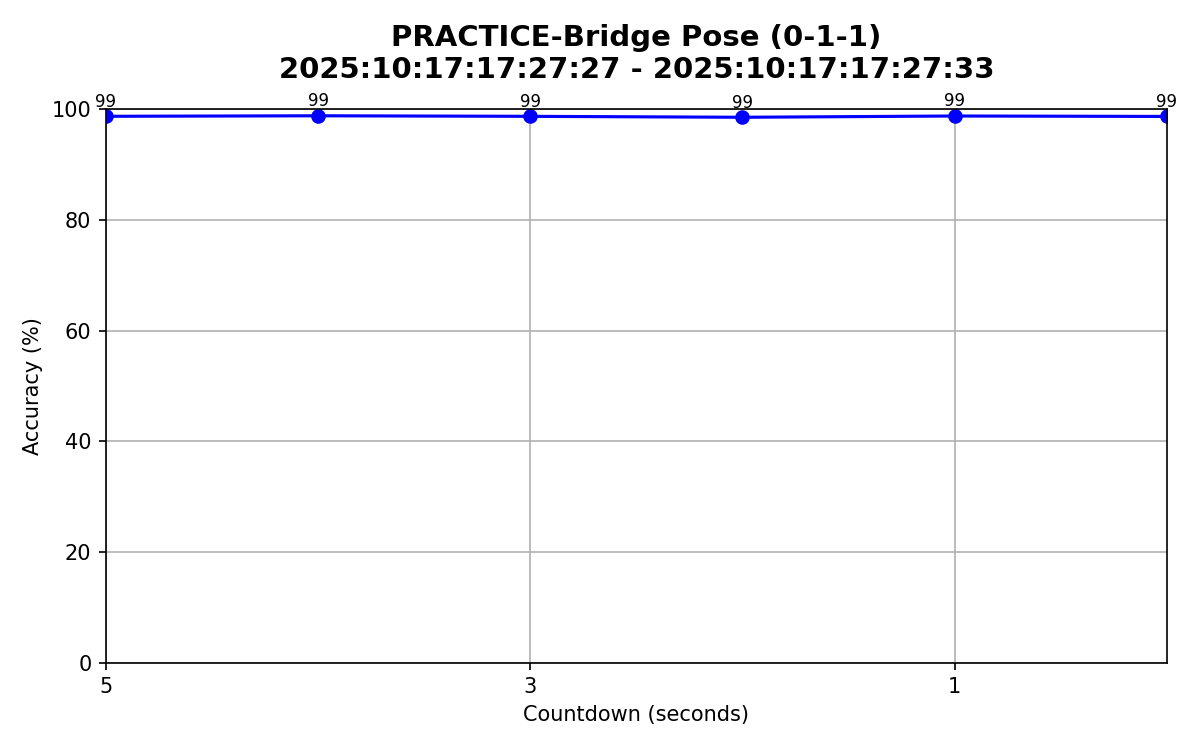
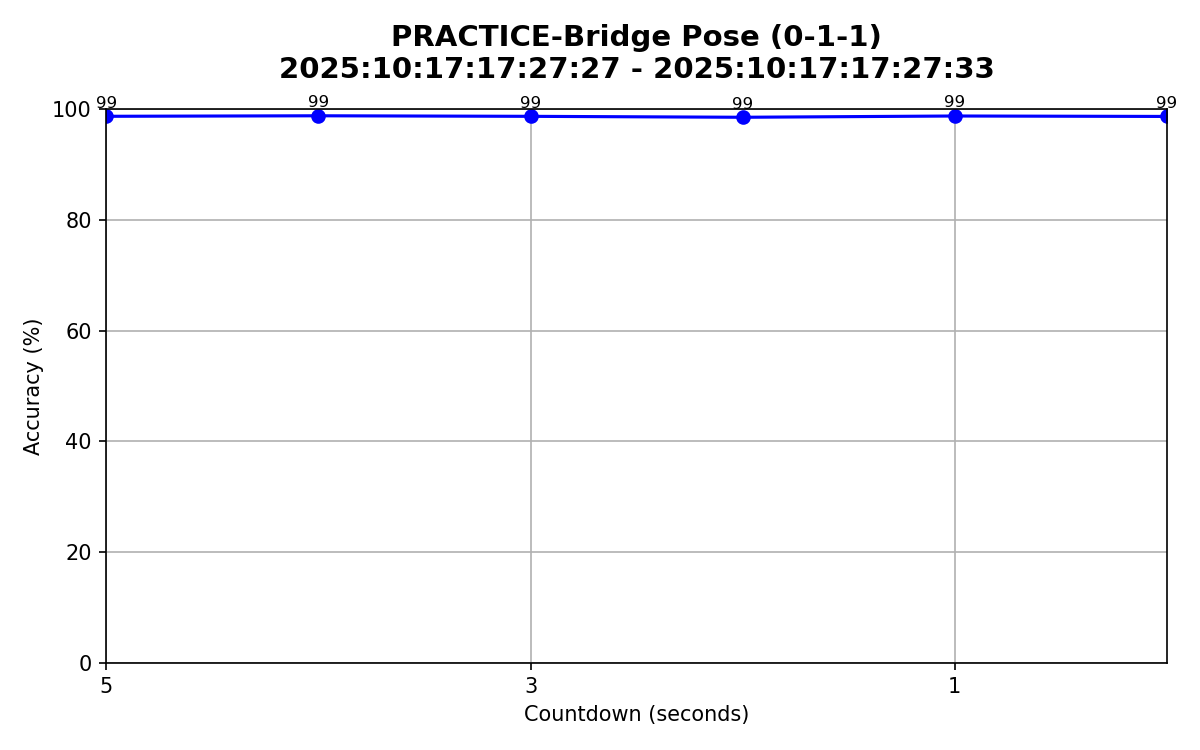
修正發現的bug

diff --git a/generate_chart.py b/generate_chart.py
@@ -49,7 +49,7 @@ def fetch_and_group_data(user_id, mode_text, posture_text, db, start_date, end_d
 
     merged_rows = {}
     for r in rows:
-        key = (r["count"], r["countdown"])
+        key = (r["count"], r["countdown"], r["timestamp"])
         if key not in merged_rows:
             merged_rows[key] = {"sum": r["accuracy"], "cnt": 1, "row": r}
         else:
@@ -68,48 +68,73 @@ def fetch_and_group_data(user_id, mode_text, posture_text, db, start_date, end_d
 
     final_groups = []
     for major_key, rows_in_group in major_groups.items():
-        rows_in_group.sort(key=lambda r: r["countdown"], reverse=True)
-        cds = [int(r["countdown"]) for r in rows_in_group if r["countdown"] is not None]
-        if not cds:
-            continue
-        cd_max, cd_min = max(cds), min(cds)
-
-        cd_map = {int(r["countdown"]): float(r["accuracy"]) for r in rows_in_group}
-        cd_time_map = {int(r["countdown"]): r["timestamp"] for r in rows_in_group if r["timestamp"] is not None}
-        filled_rows = []
-        last_acc = None
-        last_time = None
-        for cd in range(cd_max, cd_min - 1, -1):
-            acc = cd_map.get(cd, last_acc)
-            tstamp = cd_time_map.get(cd, last_time)
-            if acc is not None:
-                fake_row = rows_in_group[0].copy()
-                fake_row["countdown"] = cd
-                fake_row["accuracy"] = acc
-                fake_row["timestamp"] = tstamp
-                filled_rows.append(fake_row)
-            if cd in cd_map:
-                last_acc = cd_map[cd]
-            if cd in cd_time_map:
-                last_time = cd_time_map[cd]
-
-        sub_groups, temp = [], []
+        rows_in_group.sort(key=lambda r: r["timestamp"] or datetime.min)  # sort by time
+        cycles = []
+        current_cycle = []
         prev_cd = None
-        for r in filled_rows:
-            cd = int(r["countdown"])
-            if prev_cd is not None and cd > prev_cd:
-                sub_groups.append(temp)
-                temp = []
-            temp.append(r)
-            prev_cd = cd
-        if temp:
-            sub_groups.append(temp)
+        for r in rows_in_group:
+            if r.get("countdown") is None:
+                continue
+            try:
+                cd = int(r["countdown"])
+            except Exception:
+                continue
 
-        for idx, sg in enumerate(sub_groups, start=1):
+            if prev_cd is None:
+                current_cycle = [r]
+            else:
+                if cd > prev_cd:  # new cycle
+                    if current_cycle:
+                        cycles.append(current_cycle)
+                    current_cycle = [r]
+                else:
+                    current_cycle.append(r)
+            prev_cd = cd
+        if current_cycle:
+            cycles.append(current_cycle)
+
+        for idx, cycle in enumerate(cycles, start=1):
+            obs_map = {}
+            time_map = {}
+            for rr in cycle:
+                try:
+                    k = int(rr["countdown"])
+                except Exception:
+                    continue
+                if k not in obs_map:
+                    obs_map[k] = float(rr["accuracy"])
+                    time_map[k] = rr.get("timestamp")
+
+            if not obs_map:
+                continue
+
+            cd_max = max(obs_map.keys())
+            cd_min = min(obs_map.keys())
+
+            filled_rows = []
+            last_acc = None
+            last_time = None
+            for cd in range(cd_max, cd_min - 1, -1):
+                if cd in obs_map:
+                    last_acc = obs_map[cd]
+                    last_time = time_map.get(cd, last_time)
+                    fake_row = cycle[0].copy()
+                    fake_row["countdown"] = cd
+                    fake_row["accuracy"] = last_acc
+                    fake_row["timestamp"] = last_time
+                    filled_rows.append(fake_row)
+                else:
+                    if last_acc is not None:
+                        fake_row = cycle[0].copy()
+                        fake_row["countdown"] = cd
+                        fake_row["accuracy"] = last_acc
+                        fake_row["timestamp"] = last_time
+                        filled_rows.append(fake_row)
+
             final_groups.append({
                 "major": major_key,
                 "minor": idx,
-                "rows": sg
+                "rows": filled_rows
             })
 
     return final_groups

diff --git a/main.py b/main.py
@@ -163,6 +163,7 @@ class AIYogaCoachApp(QMainWindow, Ui_MainWindow):
 
         # Update logger user id when account emits id
         self.account.user_id_signal.connect(self.logger.set_user_id)
+        self.account.user_id_signal.connect(lambda uid: self.on_reset_clicked() if uid else None)
 
         # Start session upon login, end session on logout
         self.account.user_id_signal.connect(
@@ -536,8 +537,13 @@ class AIYogaCoachApp(QMainWindow, Ui_MainWindow):
         # 1 If the app is paused or not active, flush buffers
         # -----------------------------
         current_state = self.state_reg_label.text()
-        if current_state in ["Pause", "N/A"]:
-            self.flush_pose_buffer()  # Clear buffered pose data
+
+        if current_state != "Exercise":
+            if current_state in ["Pause", "N/A"]:
+                self.flush_pose_buffer()  
+                self.countdown_timer.on_pose_detected(False)
+                return
+
             self.countdown_timer.on_pose_detected(False)
             return
 
@@ -583,6 +589,7 @@ class AIYogaCoachApp(QMainWindow, Ui_MainWindow):
         if avg and avg > 0:
             detected = True
             mode = self.countdown_timer.mode
+            ts = datetime.now()
 
             # Update standard score display for this pose
             display_standard_score(self.standard_score, detected_pose_name, mode)
@@ -597,7 +604,8 @@ class AIYogaCoachApp(QMainWindow, Ui_MainWindow):
                     "posture_name": detected_pose_name,
                     "accuracy": avg,
                     "mode": mode,
-                    "countdown": countdown_value
+                    "countdown": countdown_value,
+                    "timestamp":ts
                 })
             except Exception as e:
                 print("pose_record_buffer append error:", e)
@@ -981,7 +989,8 @@ class AIYogaCoachApp(QMainWindow, Ui_MainWindow):
                         posture_name=record["posture_name"],
                         accuracy=record["accuracy"],
                         mode=record["mode"],
-                        countdown=record["countdown"]
+                        countdown=record["countdown"],
+                        timestamp=record["timestamp"]
                     )
                 self.pose_record_buffer.clear()
 

diff --git a/record_logger.py b/record_logger.py
@@ -143,13 +143,16 @@ class RecordLogger:
             self._current_session_mode = None
 
     # --- write per-second sample (record_picture) ---
-    def add_picture_record(self, posture_id, posture_name, accuracy, mode, countdown=None):
+    def add_picture_record(self, posture_id, posture_name, accuracy, mode, countdown=None, timestamp=None):
         """Insert a picture record into the database, including countdown and count columns."""
         if not self.user_id:
             return
 
         mode_int = self._mode_to_int(mode)
-        ts = datetime.now()
+        if timestamp is None:
+            ts = datetime.now()
+        else:
+            ts = timestamp
         session_id = self._current_session_id
 
         try:
